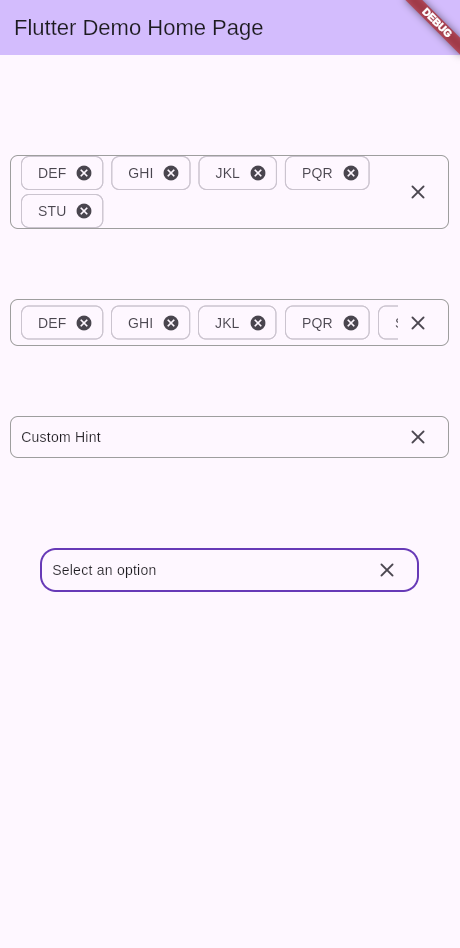
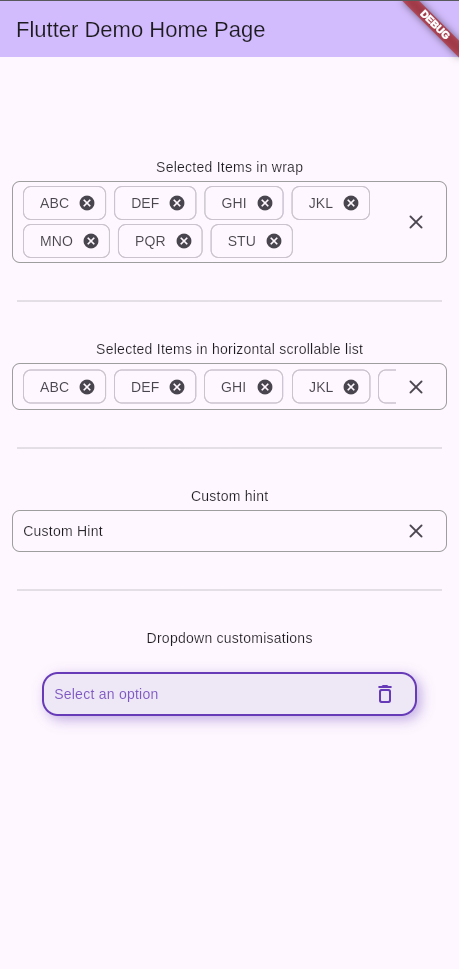
Updates: 1. Margin will now come outside of `fieldConfig` 2. Better example

diff --git a/example/lib/main.dart b/example/lib/main.dart
@@ -78,44 +78,90 @@ class _MyHomePageState extends State<MyHomePage> {
         padding: const EdgeInsets.symmetric(horizontal: 12, vertical: 100),
         // padding: const EdgeInsets.all(0),
         child: Column(
-          spacing: 70,
+          spacing: 30,
           children: [
-            IterableDropdown<String>.builder(
-              controller: _dropdownController1,
-              enableSearch: false,
-              items: items,
-              itemBuilder: itemBuilder,
-              selectionMode: SelectionMode.multi,
+            Column(
+              spacing: 4,
+              children: [
+                Text('Selected Items in wrap'),
+                IterableDropdown<String>.builder(
+                  controller: _dropdownController1,
+                  enableSearch: false,
+                  fieldConfig: FieldConfig(
+                    padding: EdgeInsets.symmetric(vertical: 4, horizontal: 10),
+                  ),
+                  items: items,
+                  itemBuilder: itemBuilder,
+                  selectionMode: SelectionMode.multi,
+                ),
+              ],
             ),
-            IterableDropdown<String>.builder(
-              controller: _dropdownController2,
-              enableSearch: false,
-              fieldConfig: FieldConfig(wrapStyle: WrapStyle.list),
-              items: items,
-              itemBuilder: itemBuilder,
-              selectionMode: SelectionMode.multi,
+            const Divider(indent: 5, endIndent: 5),
+            Column(
+              spacing: 4,
+              children: [
+                Text('Selected Items in horizontal scrollable list'),
+                IterableDropdown<String>.builder(
+                  controller: _dropdownController2,
+                  enableSearch: false,
+                  fieldConfig: FieldConfig(wrapStyle: WrapStyle.list),
+                  items: items,
+                  itemBuilder: itemBuilder,
+                  selectionMode: SelectionMode.multi,
+                ),
+              ],
             ),
-            IterableDropdown<String>.builder(
-              controller: _dropdownController3,
-              enableSearch: false,
-              fieldConfig: FieldConfig(hint: Text('Custom Hint')),
-              items: items,
-              itemBuilder: itemBuilder,
-              selectionMode: SelectionMode.multi,
+            const Divider(indent: 5, endIndent: 5),
+            Column(
+              spacing: 4,
+              children: [
+                Text('Custom hint'),
+                IterableDropdown<String>.builder(
+                  controller: _dropdownController3,
+                  enableSearch: false,
+                  fieldConfig: FieldConfig(hint: Text('Custom Hint')),
+                  items: items,
+                  itemBuilder: itemBuilder,
+                  selectionMode: SelectionMode.multi,
+                ),
+              ],
             ),
-            IterableDropdown<String>.builder(
-              controller: _dropdownController4,
-              enableSearch: false,
-              fieldConfig: FieldConfig(
-                margin: EdgeInsets.symmetric(horizontal: 30, vertical: 20),
-              ),
-              items: items,
-              itemBuilder: itemBuilder,
-              selectionMode: SelectionMode.multi,
-              decoration: BoxDecoration(
-                borderRadius: BorderRadius.circular(16),
-                border: Border.all(color: Colors.deepPurple, width: 2),
-              ),
+            const Divider(indent: 5, endIndent: 5),
+            Column(
+              spacing: 4,
+              children: [
+                Text('Dropdown customisations'),
+                IterableDropdown<String>.builder(
+                  controller: _dropdownController4,
+                  enableSearch: false,
+                  fieldConfig: FieldConfig(
+                    hint: Text(
+                      'Select an option',
+                      style: TextStyle(color: Colors.deepPurple.shade400),
+                    ),
+                    clearAllIcon: Icon(
+                      Icons.delete_outline_rounded,
+                      color: Colors.deepPurple,
+                    ),
+                  ),
+                  items: items,
+                  itemBuilder: itemBuilder,
+                  selectionMode: SelectionMode.multi,
+                  margin: EdgeInsets.symmetric(horizontal: 30, vertical: 20),
+                  decoration: BoxDecoration(
+                    borderRadius: BorderRadius.circular(16),
+                    border: Border.all(color: Colors.deepPurple, width: 2),
+                    color: Colors.deepPurple.shade50,
+                    boxShadow: [
+                      BoxShadow(
+                        color: Colors.deepPurple.withAlpha(0x66),
+                        offset: Offset(4, 4),
+                        blurRadius: 10,
+                      ),
+                    ],
+                  ),
+                ),
+              ],
             ),
           ],
         ),

diff --git a/lib/src/iterable_dropdown.dart b/lib/src/iterable_dropdown.dart
@@ -76,6 +76,7 @@ class IterableDropdown<T> extends StatefulWidget {
     this.enableSearch = true,
     this.searchFieldConfig = const SearchFieldConfig(),
     this.decoration,
+    this.margin,
   });
 
   /// Selection mode for your dropdown.
@@ -137,6 +138,9 @@ class IterableDropdown<T> extends StatefulWidget {
 
   /// Custom decoration for the dropdown
   final Decoration? decoration;
+
+  /// Margin for the dropdown
+  final EdgeInsetsGeometry? margin;
 
   @override
   State<IterableDropdown<T>> createState() => _IterableDropdownState();
@@ -201,8 +205,8 @@ class _IterableDropdownState<T> extends State<IterableDropdown<T>> {
     final size =
         renderBox.size +
         Offset(
-          -(widget.fieldConfig.margin?.horizontal ?? 0),
-          -(widget.fieldConfig.margin?.vertical ?? 0),
+          -(widget.margin?.horizontal ?? 0),
+          -(widget.margin?.vertical ?? 0),
         );
 
     // Calculate the dynamic height
@@ -216,7 +220,7 @@ class _IterableDropdownState<T> extends State<IterableDropdown<T>> {
 
     final dropdownButtonOffset = renderBox.localToGlobal(Offset.zero);
 
-    final margin = widget.fieldConfig.margin;
+    final margin = widget.margin;
     final double leftMargin, topMargin;
     if (margin is EdgeInsets) {
       leftMargin = margin.left;
@@ -473,7 +477,7 @@ class _IterableDropdownState<T> extends State<IterableDropdown<T>> {
               child: Container(
                 decoration: dropdownDecoration,
                 padding: fieldConfig.padding,
-                margin: fieldConfig.margin,
+                margin: widget.margin,
                 child: Row(
                   children: [
                     Expanded(child: child),

diff --git a/lib/src/data_models/field_config.dart b/lib/src/data_models/field_config.dart
@@ -34,8 +34,8 @@ class FieldConfig {
   /// [runSpacing] represents the vertical spacing between the selected items. The default value is 4.0.
   final double spacing, runSpacing;
 
-  /// Padding and margin for the dropdown
-  final EdgeInsetsGeometry? padding, margin;
+  /// [padding] for padding for the dropdown
+  final EdgeInsetsGeometry? padding;
 
   /// Icon for clearing all selections
   final Widget clearAllIcon;
@@ -58,7 +58,6 @@ class FieldConfig {
     this.spacing = 8,
     this.runSpacing = 4,
     this.padding = const EdgeInsets.symmetric(horizontal: 10),
-    this.margin,
     this.clearAllIcon = const Icon(Icons.close_rounded),
   });
 }

diff --git a/README.md b/README.md
@@ -3,9 +3,11 @@ It has multiselect features for selecting multiple items as well.
 
 ## Screenshots
 
-| Custom Decoration                                    | Single Select                                   | Single Select with Search                                          | Multi Select                                  | Multi Select with Search                                         |
-|------------------------------------------------------|-------------------------------------------------|--------------------------------------------------------------------|-----------------------------------------------|------------------------------------------------------------------|
-| ![Custom Decoration](screenshots/customisations.png) | ![Single Select](screenshots/single_select.gif) | ![Single Select with Search](screenshots/single_search_select.gif) | ![Multi Select](screenshots/multi_select.gif) | ![Multi Select with Search](screenshots/multi_search_select.gif) |
+![Custom Decoration](screenshots/customisations.png)
+
+| Single Select                                   | Single Select with Search                                          | Multi Select                                  | Multi Select with Search                                         |
+|-------------------------------------------------|--------------------------------------------------------------------|-----------------------------------------------|------------------------------------------------------------------|
+| ![Single Select](screenshots/single_select.gif) | ![Single Select with Search](screenshots/single_search_select.gif) | ![Multi Select](screenshots/multi_select.gif) | ![Multi Select with Search](screenshots/multi_search_select.gif) |
 
 
 ## Features
@@ -18,13 +20,13 @@ Use this package in your Flutter app to:
 ## Platform Support
 
 | Platform | Supported |
-|-----------|------------|
-| Android | ✅ |
-| iOS | ✅ |
-| Web | ✅ |
-| Windows | ✅ |
-| macOS | ✅ |
-| Linux | ✅ |
+|----------|------------|
+| Android  | ✅ |
+| iOS      | ✅ |
+| Web      | ✅ |
+| Windows  | ✅ |
+| MacOS    | ✅ |
+| Linux    | ✅ |
 
 ## Getting started
 
